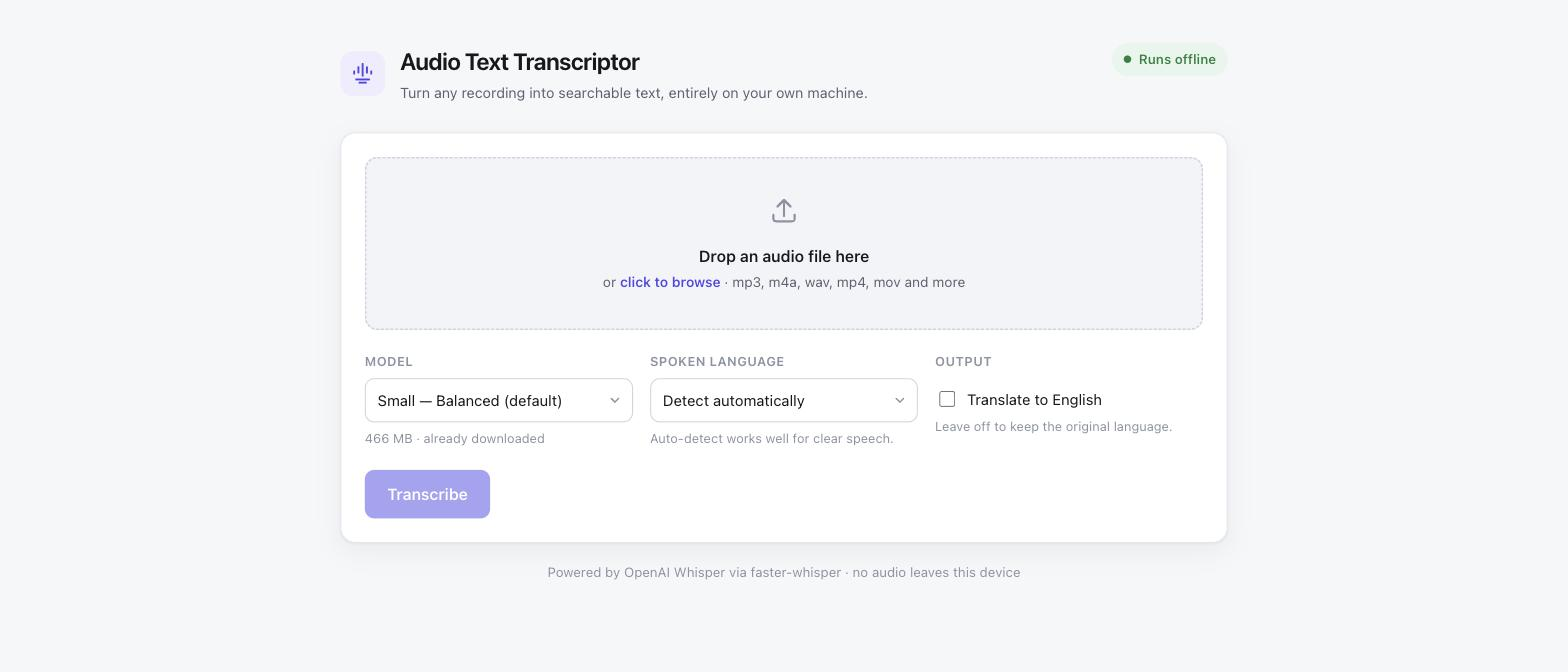
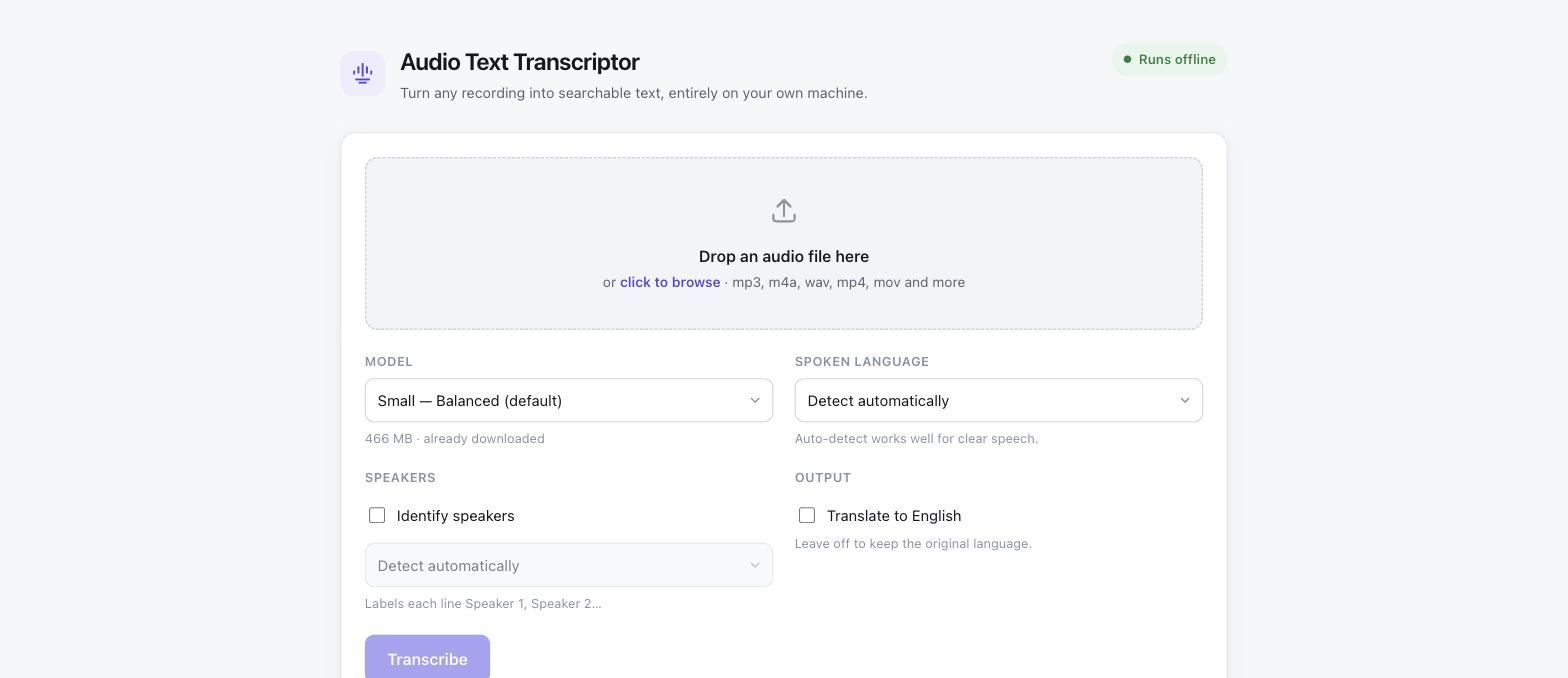
Update showcase for speaker identification
The app now produces speaker-attributed transcripts, so the write-up, screenshots
and demo recording are refreshed to match.

Adds design notes on the two problems worth showing: why speakers are attributed
per word rather than per line (Whisper breaks lines across speaker changes, so
line-level labelling misattributes quotes), and how the auto-detection threshold
was measured against known recordings across WAV, MP3 and AAC instead of guessed.

Still documentation and media only — no application source, no link to the
private repository. The demo recording remains synthetic text-to-speech.

diff --git a/README.md b/README.md
@@ -3,14 +3,15 @@
 Turn any recording into searchable text, entirely on your own machine.
 
 A local-first transcription app: drop in an audio or video file and get a
-timestamped transcript you can read, copy or export as `.txt`, `.srt`, `.vtt` or
-`.json`. Speech recognition runs on your own CPU through OpenAI's Whisper
-models — no cloud service, no API key, and no audio ever leaves the device.
+timestamped transcript, attributed to each speaker, that you can read, copy or
+export as `.txt`, `.srt`, `.vtt` or `.json`. Speech recognition and speaker
+identification both run on your own CPU — no cloud service, no API key, and no
+audio ever leaves the device.
 
 > This repository is a showcase. It documents what the app does and how it is
 > put together; the implementation lives in a private repository.
 
-![Transcribing a recording end to end](assets/demo.gif)
+![Transcribing an interview and labelling both speakers](assets/demo.gif)
 
 ---
 
@@ -24,8 +25,12 @@ one: one command to start, drag a file in, read the transcript.
 
 ## What it does
 
-- **Drag and drop** any audio or video file — mp3, m4a, wav, aac, flac, ogg,
-  opus, aiff, and the audio track of mp4, mov, mkv and webm.
+- **Drag and drop** any audio or video file — `.mp3`, `.m4a`, `.wav`, `.aac`,
+  `.flac`, `.ogg`, `.opus` and more, plus `.mp4`, `.mov`, `.mkv` and `.webm`
+  video. Video needs no conversion; the audio track is extracted automatically.
+- **Speaker identification.** An interview comes back as `Speaker 1:` /
+  `Speaker 2:`, numbered by who talks first, with the count either detected or
+  set by hand.
 - **Live transcript.** Lines appear as they are decoded rather than all at the
   end, so you can start reading a long recording immediately.
 - **Five Whisper models**, from `tiny` (8× real time) to `large-v3` (best
@@ -33,7 +38,7 @@ one: one command to start, drag a file in, read the transcript.
 - **99 languages**, auto-detected, with optional translation into English.
 - **Timestamped output**, toggleable between timestamped lines and plain prose.
 - **Five export formats** — plain text, timestamped text, SRT and VTT subtitles,
-  and JSON with per-segment timings.
+  and JSON with per-segment timings. Speaker labels appear in all of them.
 - **Silence-aware.** Voice-activity detection skips quiet stretches, which
   speeds up decoding and stops Whisper inventing text where nobody is speaking.
 - **Genuinely offline.** After the one-time model download, the app makes no
@@ -41,17 +46,17 @@ one: one command to start, drag a file in, read the transcript.
 
 ## Screenshots
 
-| Drop a file | Pick model and language |
+| Drop a file | Pick model, language and speakers |
 |---|---|
-| ![Empty state with a drop zone](assets/01-drop-a-file.jpg) | ![A file selected with model and language pickers](assets/02-choose-options.jpg) |
+| ![Empty state with a drop zone](assets/01-drop-a-file.jpg) | ![An MP4 selected with speaker identification enabled](assets/02-choose-options.jpg) |
 
-**Transcript, with stats and export buttons**
+**Speaker-attributed transcript, with stats and export buttons**
 
-![A finished transcript with timestamps, statistics and download buttons](assets/03-transcript-and-exports.jpg)
+![A transcript with Speaker 1 and Speaker 2 labels, statistics and download buttons](assets/03-speaker-transcript.jpg)
 
 The stats row reports what actually happened: detected language, recording
-length, word and line counts, wall-clock time, and throughput relative to real
-time.
+length, word and line counts, speakers found, wall-clock time, and throughput
+relative to real time.
 
 ## How it works
 
@@ -63,6 +68,7 @@ FastAPI                                validates, creates a job, returns 202
       │
       ▼
 Worker thread                          faster-whisper: VAD → decode → segments
+      │                                then diarisation labels the speakers
       │
       │  GET /api/jobs/{id}/stream     server-sent events, one per new segment
       ▼
@@ -76,7 +82,8 @@ txt · timestamped txt · srt · vtt · json
 Transcription is CPU-bound and blocking, so each job runs on its own worker
 thread while the web layer reads job state under a lock. The browser follows
 progress over server-sent events instead of polling — that is what makes lines
-appear mid-transcription.
+appear mid-transcription. Speaker identification runs after the transcript is
+complete, so reading can start before the labels arrive.
 
 There is a longer write-up of the design decisions in
 [docs/architecture.md](docs/architecture.md).
@@ -85,7 +92,8 @@ There is a longer write-up of the design decisions in
 
 | Layer | Choice | Why |
 |---|---|---|
-| Speech recognition | [faster-whisper](https://github.com/SYSTRAN/faster-whisper) (CTranslate2) | 4× faster than reference Whisper on CPU and needs no PyTorch — the whole environment is 194 MB instead of ~5 GB |
+| Speech recognition | [faster-whisper](https://github.com/SYSTRAN/faster-whisper) (CTranslate2) | 4× faster than reference Whisper on CPU and needs no PyTorch — the whole environment is ~230 MB instead of several GB |
+| Speaker diarisation | [sherpa-onnx](https://github.com/k2-fsa/sherpa-onnx) — pyannote segmentation + WeSpeaker embeddings | Runs on the onnxruntime already present for voice-activity detection, so ~31 MB of models buys diarisation with no new heavy dependency |
 | Audio decoding | PyAV | Bundles its own ffmpeg, so there is no system dependency to install |
 | Server | FastAPI + Uvicorn | Async streaming responses for SSE, with typed request validation |
 | Frontend | Vanilla HTML/CSS/JS | No build step and no framework — the UI is three static files |
@@ -93,8 +101,8 @@ There is a longer write-up of the design decisions in
 
 ## Performance
 
-Measured on an Apple M-series CPU with int8 quantisation. "2.5× real time"
-means a 10-minute recording finishes in about 4 minutes.
+Measured on an Apple M-series CPU with int8 quantisation. "2.5× real time" means
+a 10-minute recording finishes in about 4 minutes.
 
 | Model | Size | Throughput |
 |---|---|---|
@@ -104,12 +112,30 @@ means a 10-minute recording finishes in about 4 minutes.
 | `medium` | 1.5 GB | ~0.4× real time |
 | `large-v3` | 2.9 GB | ~0.2× real time |
 
-The demo above uses `small`: 22 seconds of speech transcribed in 21 seconds,
-word-for-word correct.
+Speaker identification adds roughly half the recording's length again. The demo
+above is `small` with speakers on: 35 seconds of two-person interview,
+transcribed and attributed in 43 seconds, word-for-word correct.
 
 ## Design notes
 
 A few decisions worth calling out:
+
+**Attribute words, not lines.** Whisper decides where to break a line from the
+audio alone, so a line frequently spans a speaker change — the end of a question
+and the start of the answer. The first version labelled whole lines by majority
+overlap, which confidently put words in the wrong mouth. Attributing each word
+and splitting the line where the speaker changes fixed it.
+
+**Auto-detection was tuned against ground truth, not guessed.** The clustering
+threshold was measured on known recordings across WAV, MP3 and AAC. The initial
+value collapsed a two-speaker interview into one speaker at low bitrate; a lower
+threshold was correct everywhere without splitting a single-speaker recording in
+two. Setting the count by hand remains the more reliable option, and the UI says
+so.
+
+**A diarisation failure must not cost you the transcript.** Speaker
+identification is a second pass over completed work, so its errors are reported
+next to the transcript rather than replacing it.
 
 **Streaming beats waiting.** The first version returned the whole transcript in
 one response. On a 40-minute recording that is a blank screen for 20 minutes.
@@ -117,28 +143,27 @@ Publishing each segment as it is decoded turned the same wait into something you
 can read as it fills in.
 
 **Isolation was a requirement, not a nicety.** The app keeps its own Python
-interpreter, its own model cache and its own port, and installs nothing
-globally. Deleting the folder removes it completely — which also means it can
-never break a neighbouring project.
+interpreter, its own model cache — including the Hugging Face download cache —
+and its own port, and installs nothing globally. Deleting the folder removes it
+completely, which also means it can never break a neighbouring project.
 
 **int8 over float32.** Quantised inference is roughly 3–4× faster on CPU with no
-accuracy difference that matters for speech. It is the reason `small` runs
-faster than real time on a laptop.
-
-**Voice-activity detection earns its keep twice.** It cuts decoding time by
-skipping silence, and it suppresses Whisper's habit of hallucinating text into
-quiet passages.
+accuracy difference that matters for speech. It is the reason `small` runs faster
+than real time on a laptop.
 
 ## A note on the demo
 
-The recording in the GIF and screenshots is synthetic — a scripted example of
-performance-review feedback, rendered with macOS text-to-speech. No real
-person's audio appears anywhere in this repository.
+The recording in the GIF and screenshots is synthetic — a scripted mock
+interview rendered with two macOS text-to-speech voices. No real person's audio
+appears anywhere in this repository.
 
 ## Licence
 
-The application is MIT licensed. This showcase repository contains
-documentation and media only.
+The application is MIT licensed. This showcase repository contains documentation
+and media only.
 
 Speech recognition by [faster-whisper](https://github.com/SYSTRAN/faster-whisper),
 a CTranslate2 reimplementation of [OpenAI Whisper](https://github.com/openai/whisper).
+Diarisation by [sherpa-onnx](https://github.com/k2-fsa/sherpa-onnx) using
+[pyannote](https://github.com/pyannote/pyannote-audio) segmentation and
+[WeSpeaker](https://github.com/wenet-e2e/wespeaker) embedding models.

diff --git a/docs/architecture.md b/docs/architecture.md
@@ -47,8 +47,19 @@ drive most of the design:
 │    load_model()          cached per (size, compute_type)           │
 │    model.transcribe()    returns a generator, not a list           │
 │    for segment in …:     append under lock, update progress        │
+│    _identify_speakers()  optional second pass — see below          │
 │                                                                   │
 │  JobStore: id → Job, evicts oldest finished jobs and their uploads │
+└──────────────────────────────────────────────────────────────────┘
+        │ when speaker identification is on
+        ▼
+┌──────────────────────────────────────────────────────────────────┐
+│ Diarisation — diarizer.py                                        │
+│                                                                   │
+│  find_turns()      pyannote segmentation → WeSpeaker embeddings    │
+│                    → clustering → speech turns with cluster ids    │
+│  split_and_label() attribute each WORD, split lines where the      │
+│                    speaker changes, number by who speaks first     │
 └──────────────────────────────────────────────────────────────────┘
 ```
 
@@ -96,6 +107,59 @@ files. Models are cached by `(size, compute_type)` and shared across jobs, which
 is safe because CTranslate2 models are thread-safe for inference. The double
 -checked pattern around the lock keeps the fast path lock-free after warm-up.
 
+### Diarisation without PyTorch
+
+The obvious way to add speaker labels is pyannote.audio, which means PyTorch —
+several gigabytes, plus a gated model download that needs an account. That is a
+lot of weight for one feature in an app whose whole premise is running easily on
+a laptop.
+
+sherpa-onnx runs the same pyannote segmentation network, plus a WeSpeaker
+embedding network, as ONNX models on onnxruntime — which faster-whisper already
+depends on for voice-activity detection. Two models totalling ~31 MB, no new
+heavy dependency, and no account required.
+
+### Attributing words, not lines
+
+This was the most interesting correctness problem in the build.
+
+Transcription and diarisation are independent passes over the same audio, and
+they disagree about where boundaries are. Whisper decides where to break a line
+from the audio alone, so a line frequently runs straight across a speaker change:
+the tail of one person's sentence and the beginning of the reply, in one segment.
+
+The first implementation labelled each line by whichever speaker overlapped it
+most. The result looked plausible and was wrong — a line reading
+`Speaker 1: …transactions a day. That sounds significant.` attributes the first
+half to the wrong person, with no visible sign that anything is off. That is the
+worst kind of bug in a transcript: confidently misattributed quotes.
+
+The fix is to work at word resolution. Whisper can emit per-word timings, so
+each word is attributed to whichever speaker turn covers it, and a line is split
+wherever the attribution changes. Word timings are requested only when
+diarising, since they cost extra decoding work, and they are dropped from the API
+payload once the labelling is done.
+
+One refinement on top: a run of one or two words attributed to a different
+speaker in the middle of a sentence is far more likely to be a diarisation wobble
+than a real interjection, so runs shorter than 0.6 s that are sandwiched between
+two runs of the same speaker are folded into their neighbour.
+
+### Tuning auto-detection against ground truth
+
+The clustering threshold decides how readily two voices are treated as one
+person, and it is the single value that determines whether auto-detection works.
+Rather than accept a default, it was measured: a known two-speaker interview and
+a known single-speaker recording, each encoded as WAV, MP3 and AAC, scored
+against the real turn-taking.
+
+The initial threshold merged the two-speaker interview into one speaker once the
+bitrate dropped, while a lower value was correct on every realistic encoding and
+still did not split the single-speaker recording in two. The measurement also
+found the real limit: at around 24 kbps the voice embeddings degrade enough to be
+unreliable at any threshold. That is documented as a limitation rather than
+papered over, and the UI recommends setting the count by hand when it is known.
+
 ### Isolation as a hard constraint
 
 The app must never disturb anything else on the machine, so:
@@ -103,13 +167,14 @@ The app must never disturb anything else on the machine, so:
 | Concern | Approach |
 |---|---|
 | Python | Standalone CPython 3.12 in a project-local `.venv` via uv |
-| Model weights | Cached in `./models`, not shared `~/.cache/huggingface` |
+| Model weights | Cached in `./models`, including the Hugging Face download cache, rather than shared `~/.cache/huggingface` |
 | Port | 8770, well clear of 3000/5173/8000; startup aborts if taken |
-| System packages | None — PyAV bundles ffmpeg, so nothing to install |
+| System packages | None — PyAV bundles ffmpeg and onnxruntime ships its own binaries |
 | Network exposure | Binds `127.0.0.1` only |
 
-Choosing faster-whisper over reference Whisper matters here too: no PyTorch means
-the entire environment is 194 MB rather than several gigabytes.
+Choosing faster-whisper over reference Whisper, and ONNX diarisation over
+pyannote.audio, matters here too: with no PyTorch anywhere the entire environment
+is around 230 MB rather than several gigabytes.
 
 ### Bounded memory
 
@@ -125,6 +190,8 @@ on both memory and disk, without needing a cleanup daemon.
 | File over the size limit | 413 mid-stream; the partial file is deleted |
 | Empty upload | 400, partial file deleted |
 | Decode or inference error | Job moves to `error`, message surfaced in the UI |
+| Diarisation failure | Transcript is kept; the error is reported beside it |
+| Speaker models missing | Downloaded on first use; a failure there is reported, not fatal |
 | No speech found | Job completes with zero segments; the UI says so plainly |
 | Client disconnects | Job keeps running; reconnecting resumes from the last segment |
 | Job evicted before download | 404 with a clear message rather than an empty file |
@@ -134,12 +201,11 @@ readable message or lands on the job as an error the UI displays.
 
 ## What I would add next
 
-- **Speaker labels.** Diarisation would turn a two-person conversation from one
-  block of prose into an attributed transcript. It is the single biggest
-  usability gain still on the table.
+- **Named speakers.** Letting you rename "Speaker 1" to a real name once, and
+  having it apply throughout the transcript and every export.
 - **Batch mode.** A queue for a folder of recordings rather than one file at a
   time.
 - **In-page playback.** Clicking a timestamp to hear that moment, with the
   transcript following along.
-- **Word-level timings.** `faster-whisper` can emit them; they would make search
-  and subtitle alignment sharper.
+- **Voice profiles.** Remembering a recurring speaker's embedding between
+  recordings so the same person keeps the same label across files.
